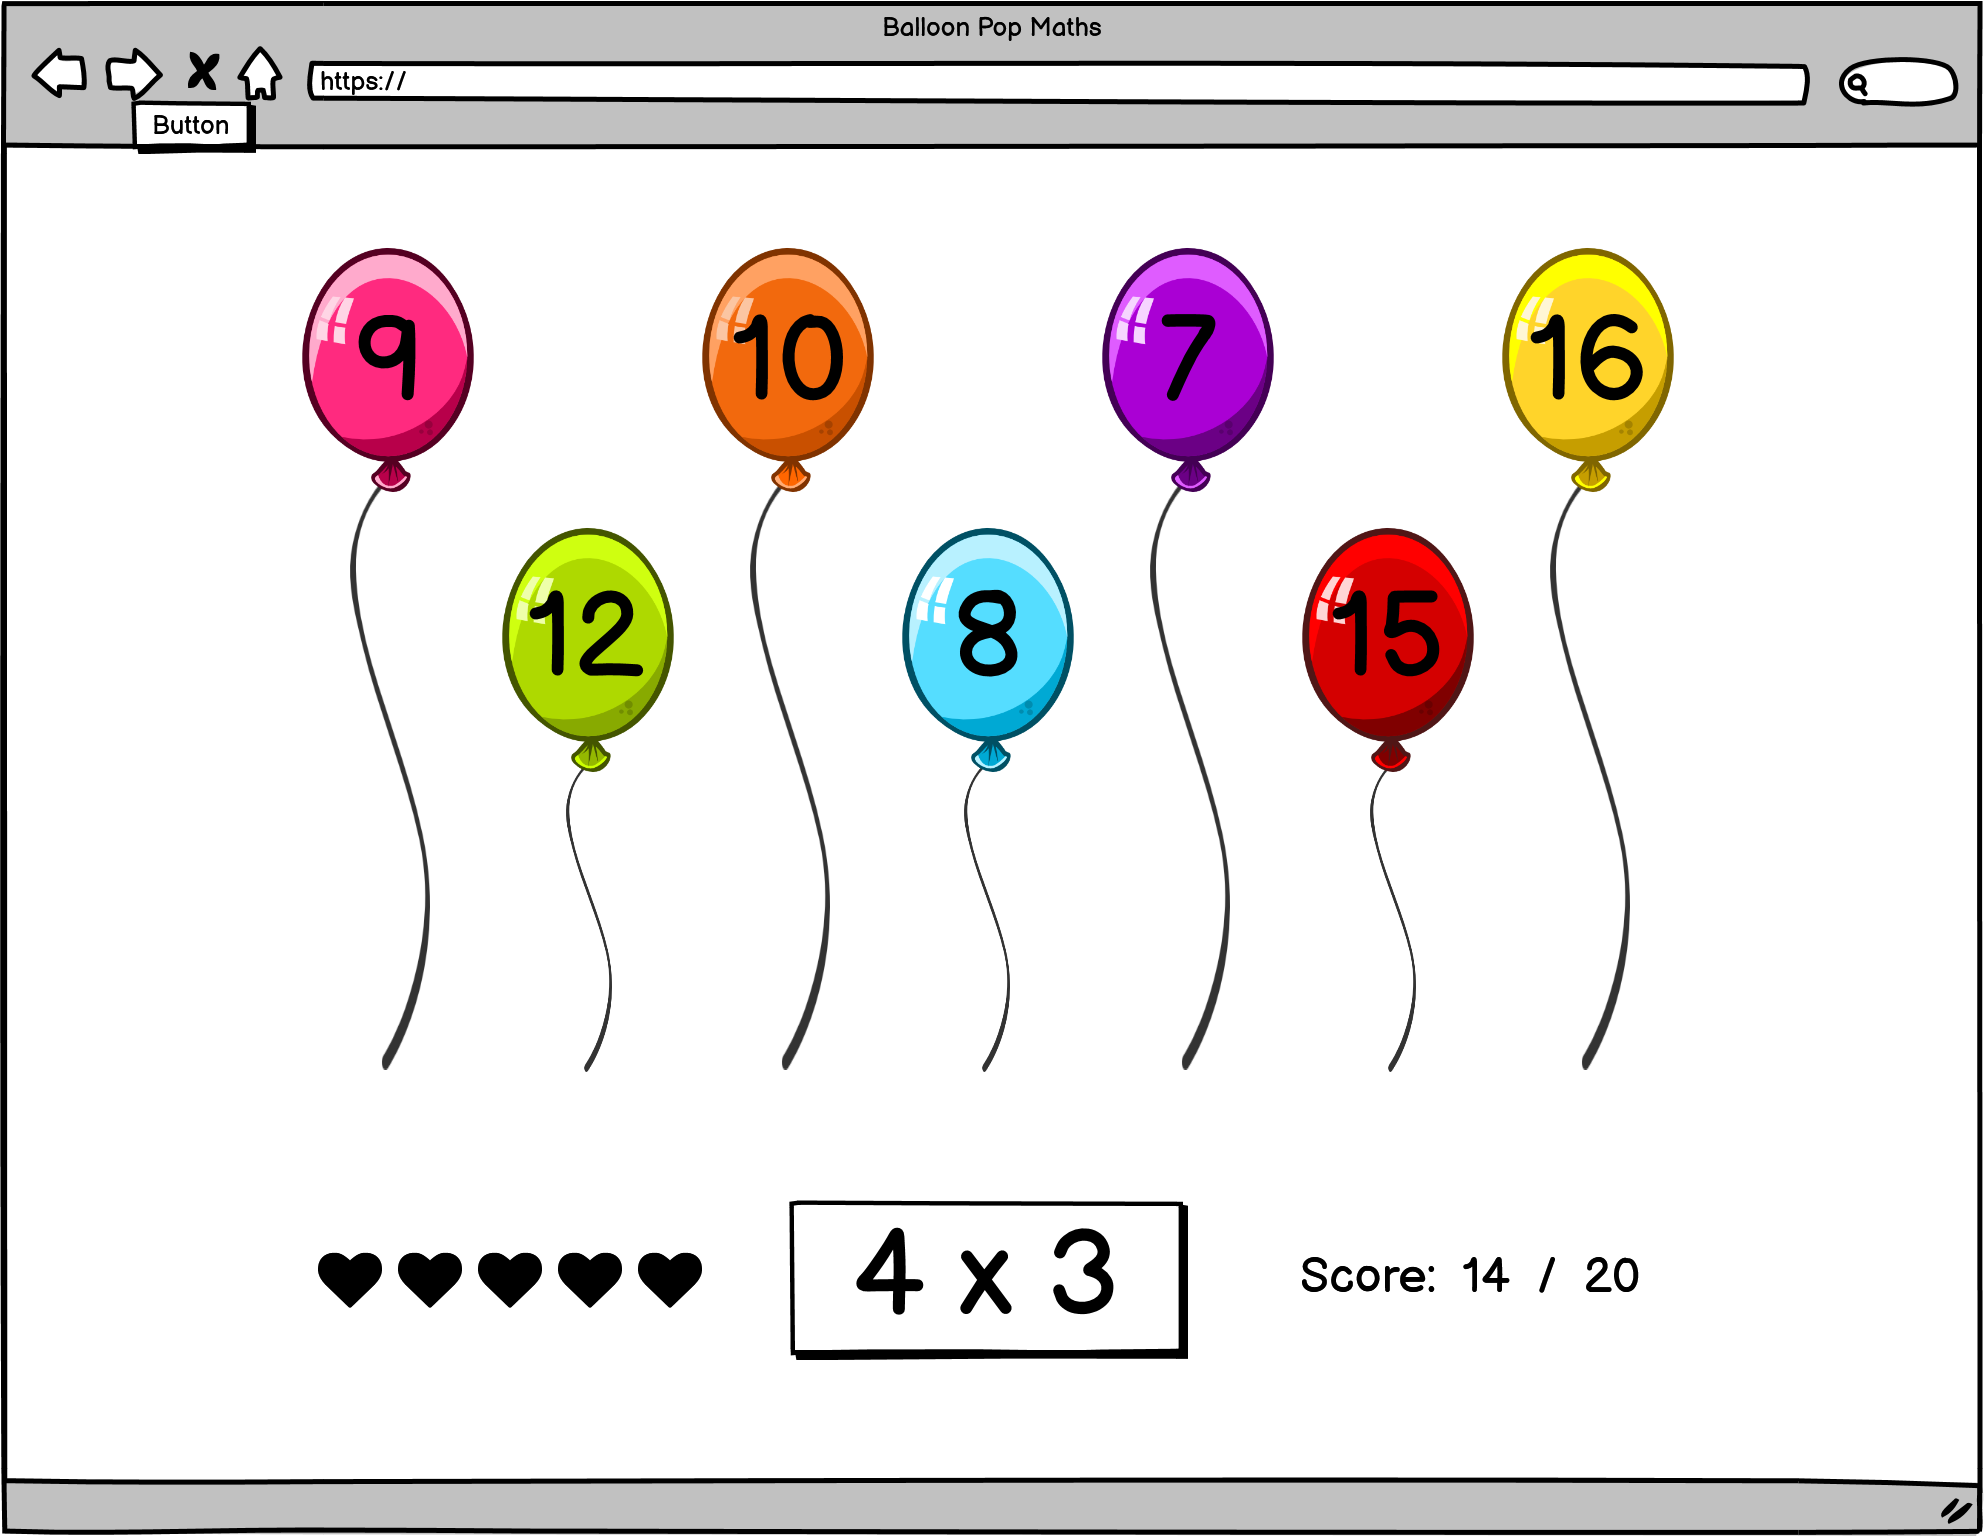
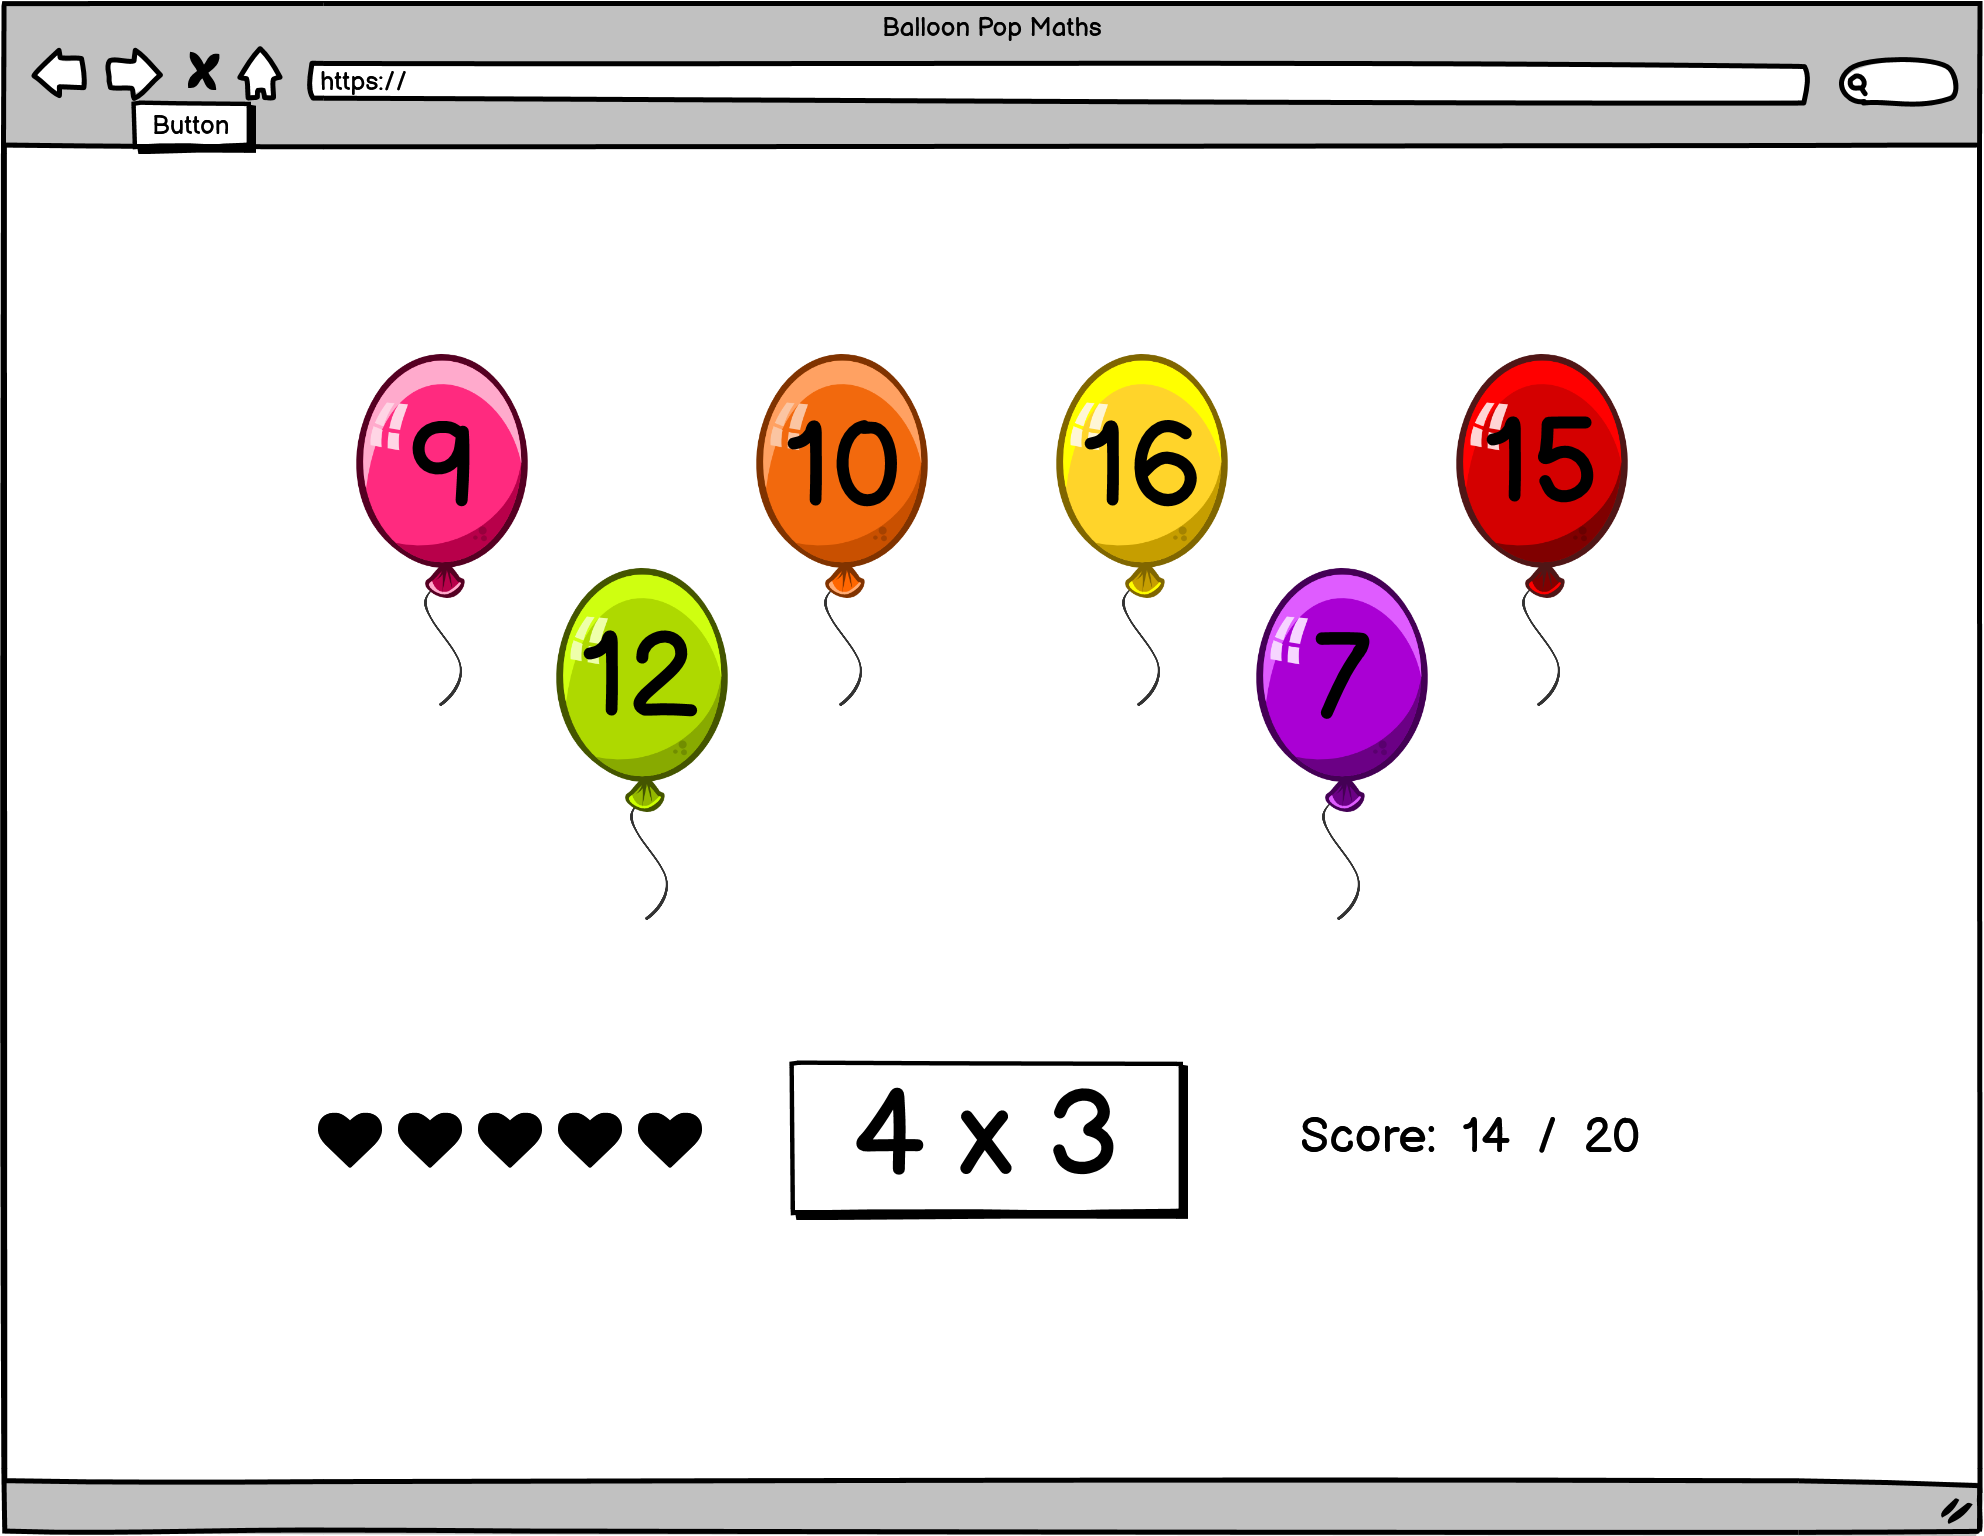
README.md and wireframes updated

diff --git a/README.md b/README.md
@@ -155,9 +155,11 @@ layout is also shown below:
 <img src="/assets/wireframes/rev1/game-multiplication.png" style="margin: 15px; width:400px;"> 
 
 [Responsive design wireframes](/assets/wireframes/rev2) were then produced showing the [Home]("/assets/wireframes/rev1/home-multiplication.png)
-page layout on [Tablet]("/assets/wireframes/rev2/home-multiplication-tablet.png) and
-[Phone]("/assets/wireframes/rev2/home-multiplication-phone.png). These are also shown below:  
+and [Game]("/assets/wireframes/rev1/game-multiplication.png) page layouts on [Tablet]("/assets/wireframes/rev2/home-multiplication-tablet.png) and
+[Phone]("/assets/wireframes/rev2/home-multiplication-phone.png). The [Responsive design wireframes](/assets/wireframes/rev2) are also shown below:  
 
-<img src="/assets/wireframes/rev1/home-multiplication-tablet.png" style="margin: 15px; width:400px;"> 
-<img src="/assets/wireframes/rev1/home-multiplication-phone.png" style="margin: 15px; width:250px;"> 
+<img src="/assets/wireframes/rev2/home-multiplication-tablet.png" style="margin: 15px; width:400px;"> 
+<img src="/assets/wireframes/rev2/home-multiplication-phone.png" style="margin: 15px; width:250px;">  
+<img src="/assets/wireframes/rev2/game-multiplication-tablet.png" style="margin: 15px; width:250px;"> 
+<img src="/assets/wireframes/rev2/game-multiplication-phone.png" style="margin: 15px; width:250px;">
 
